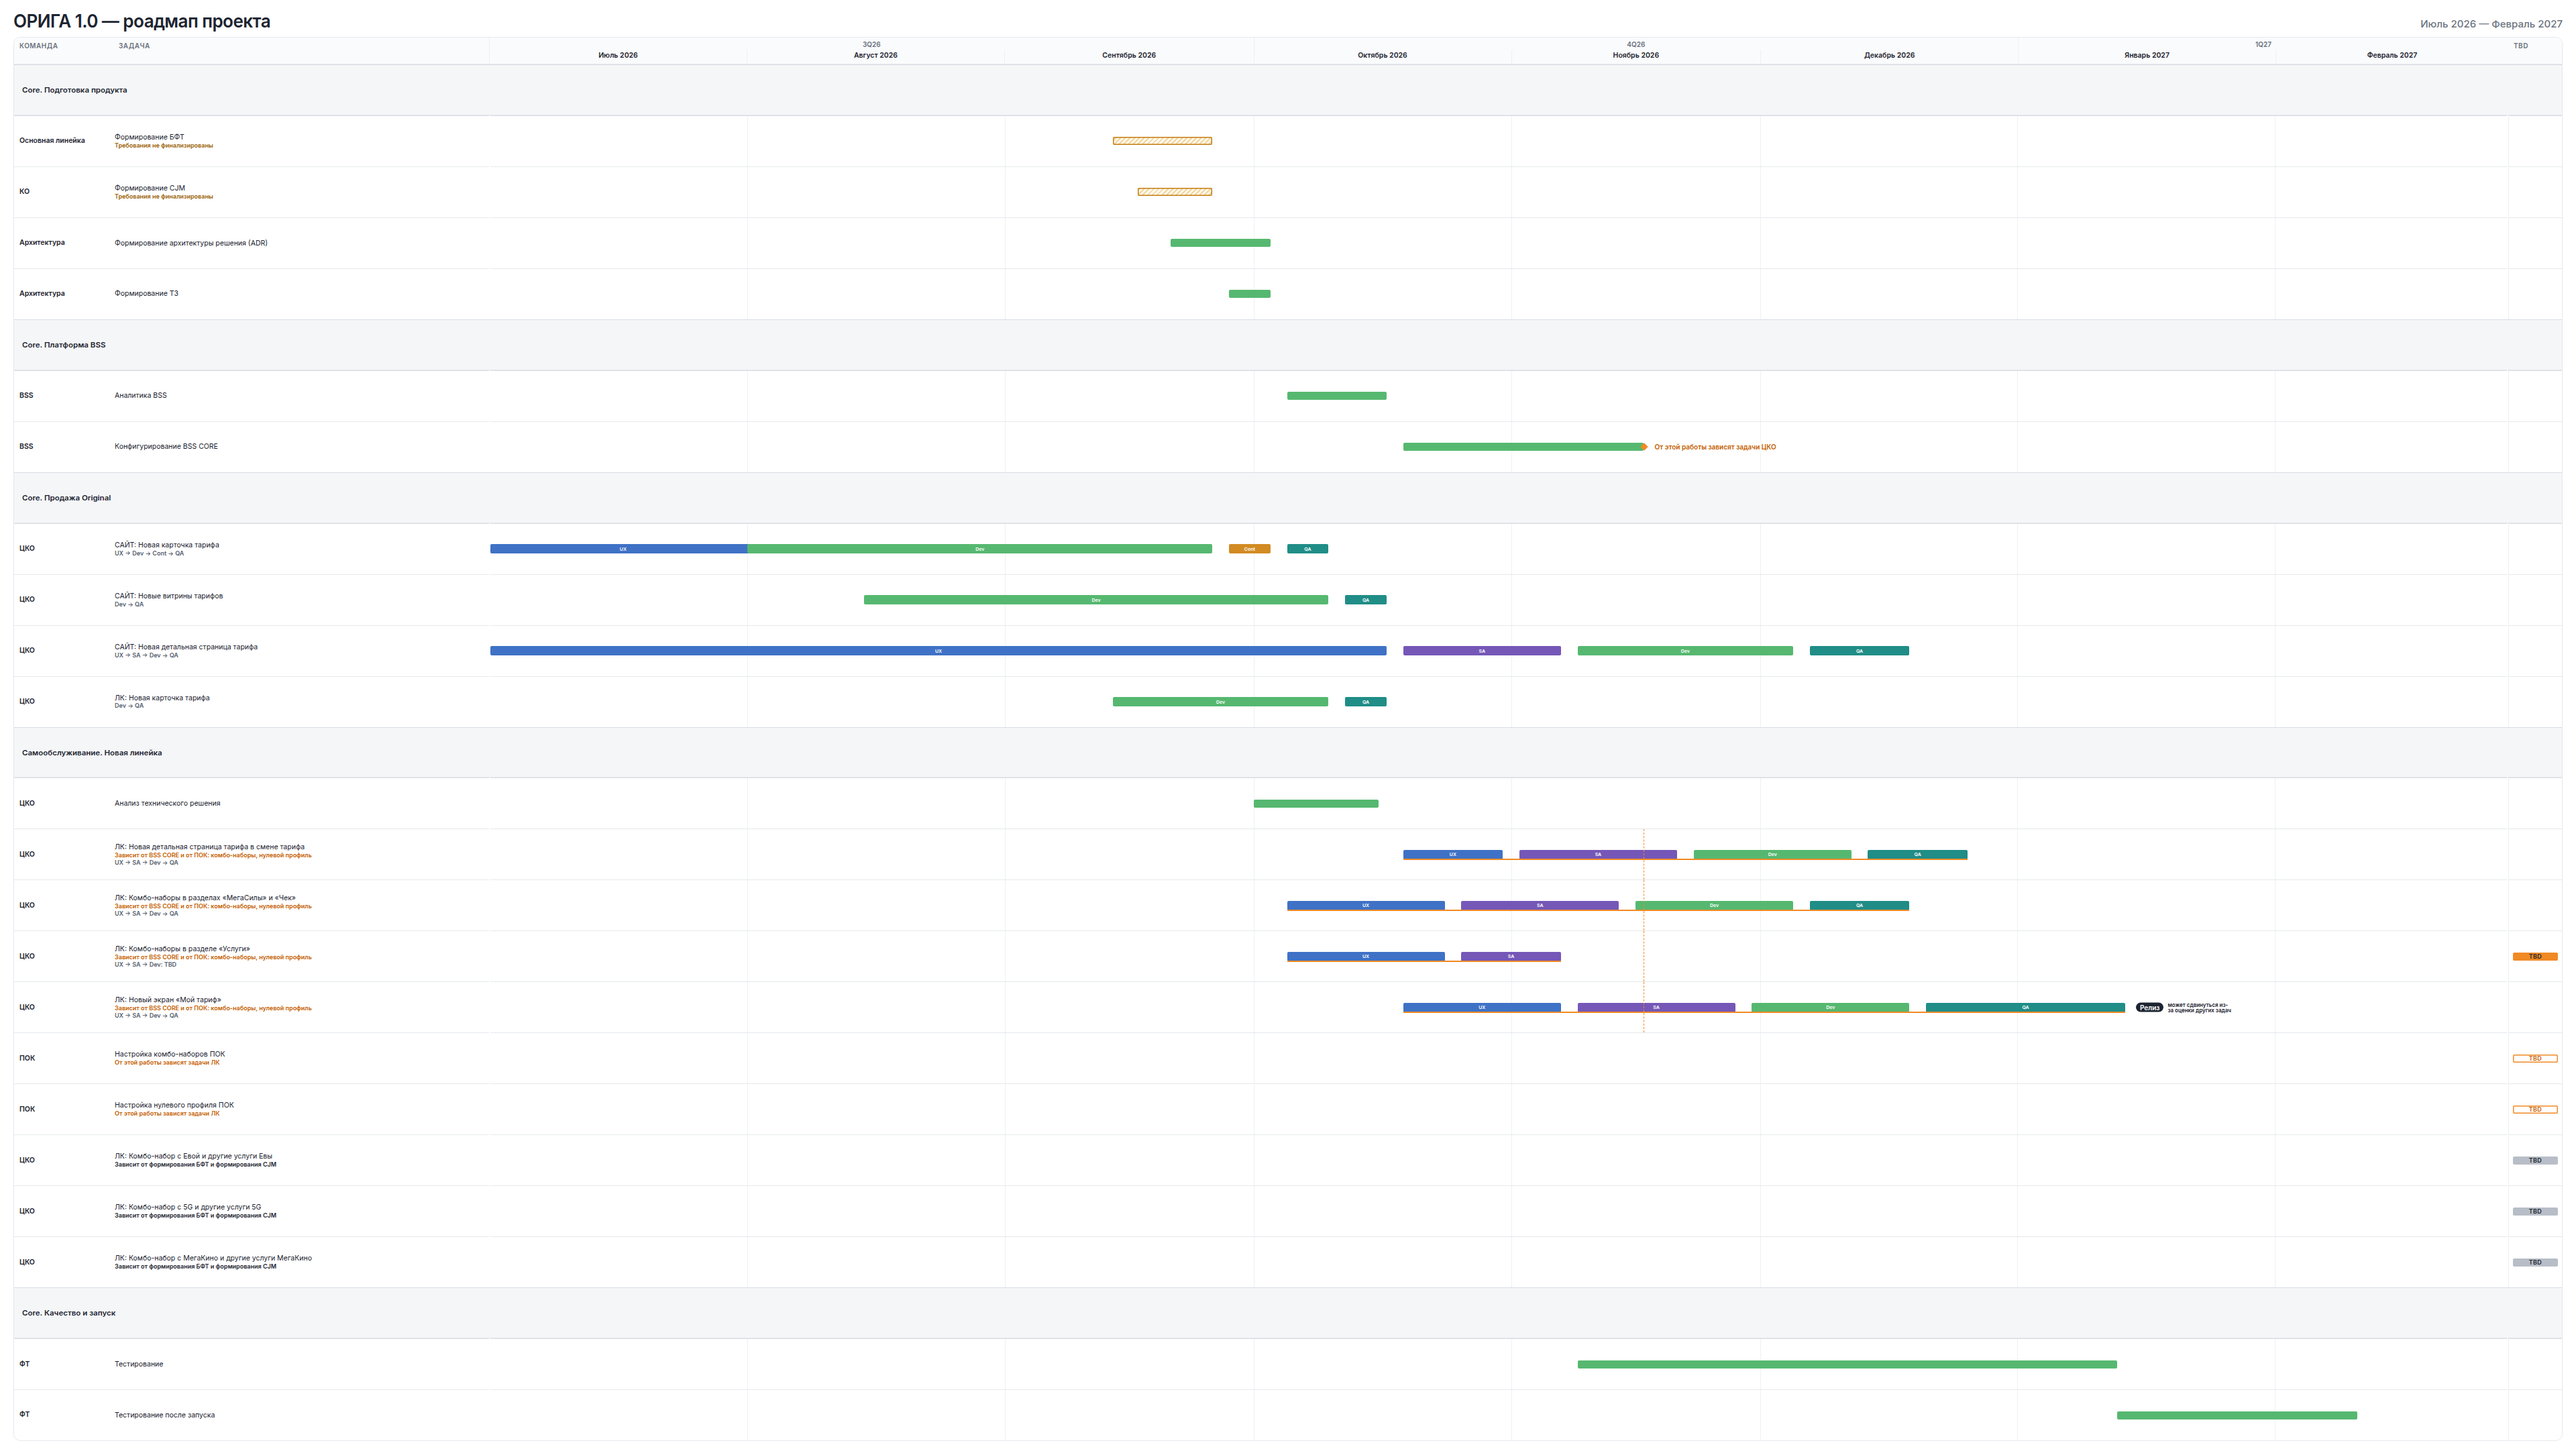
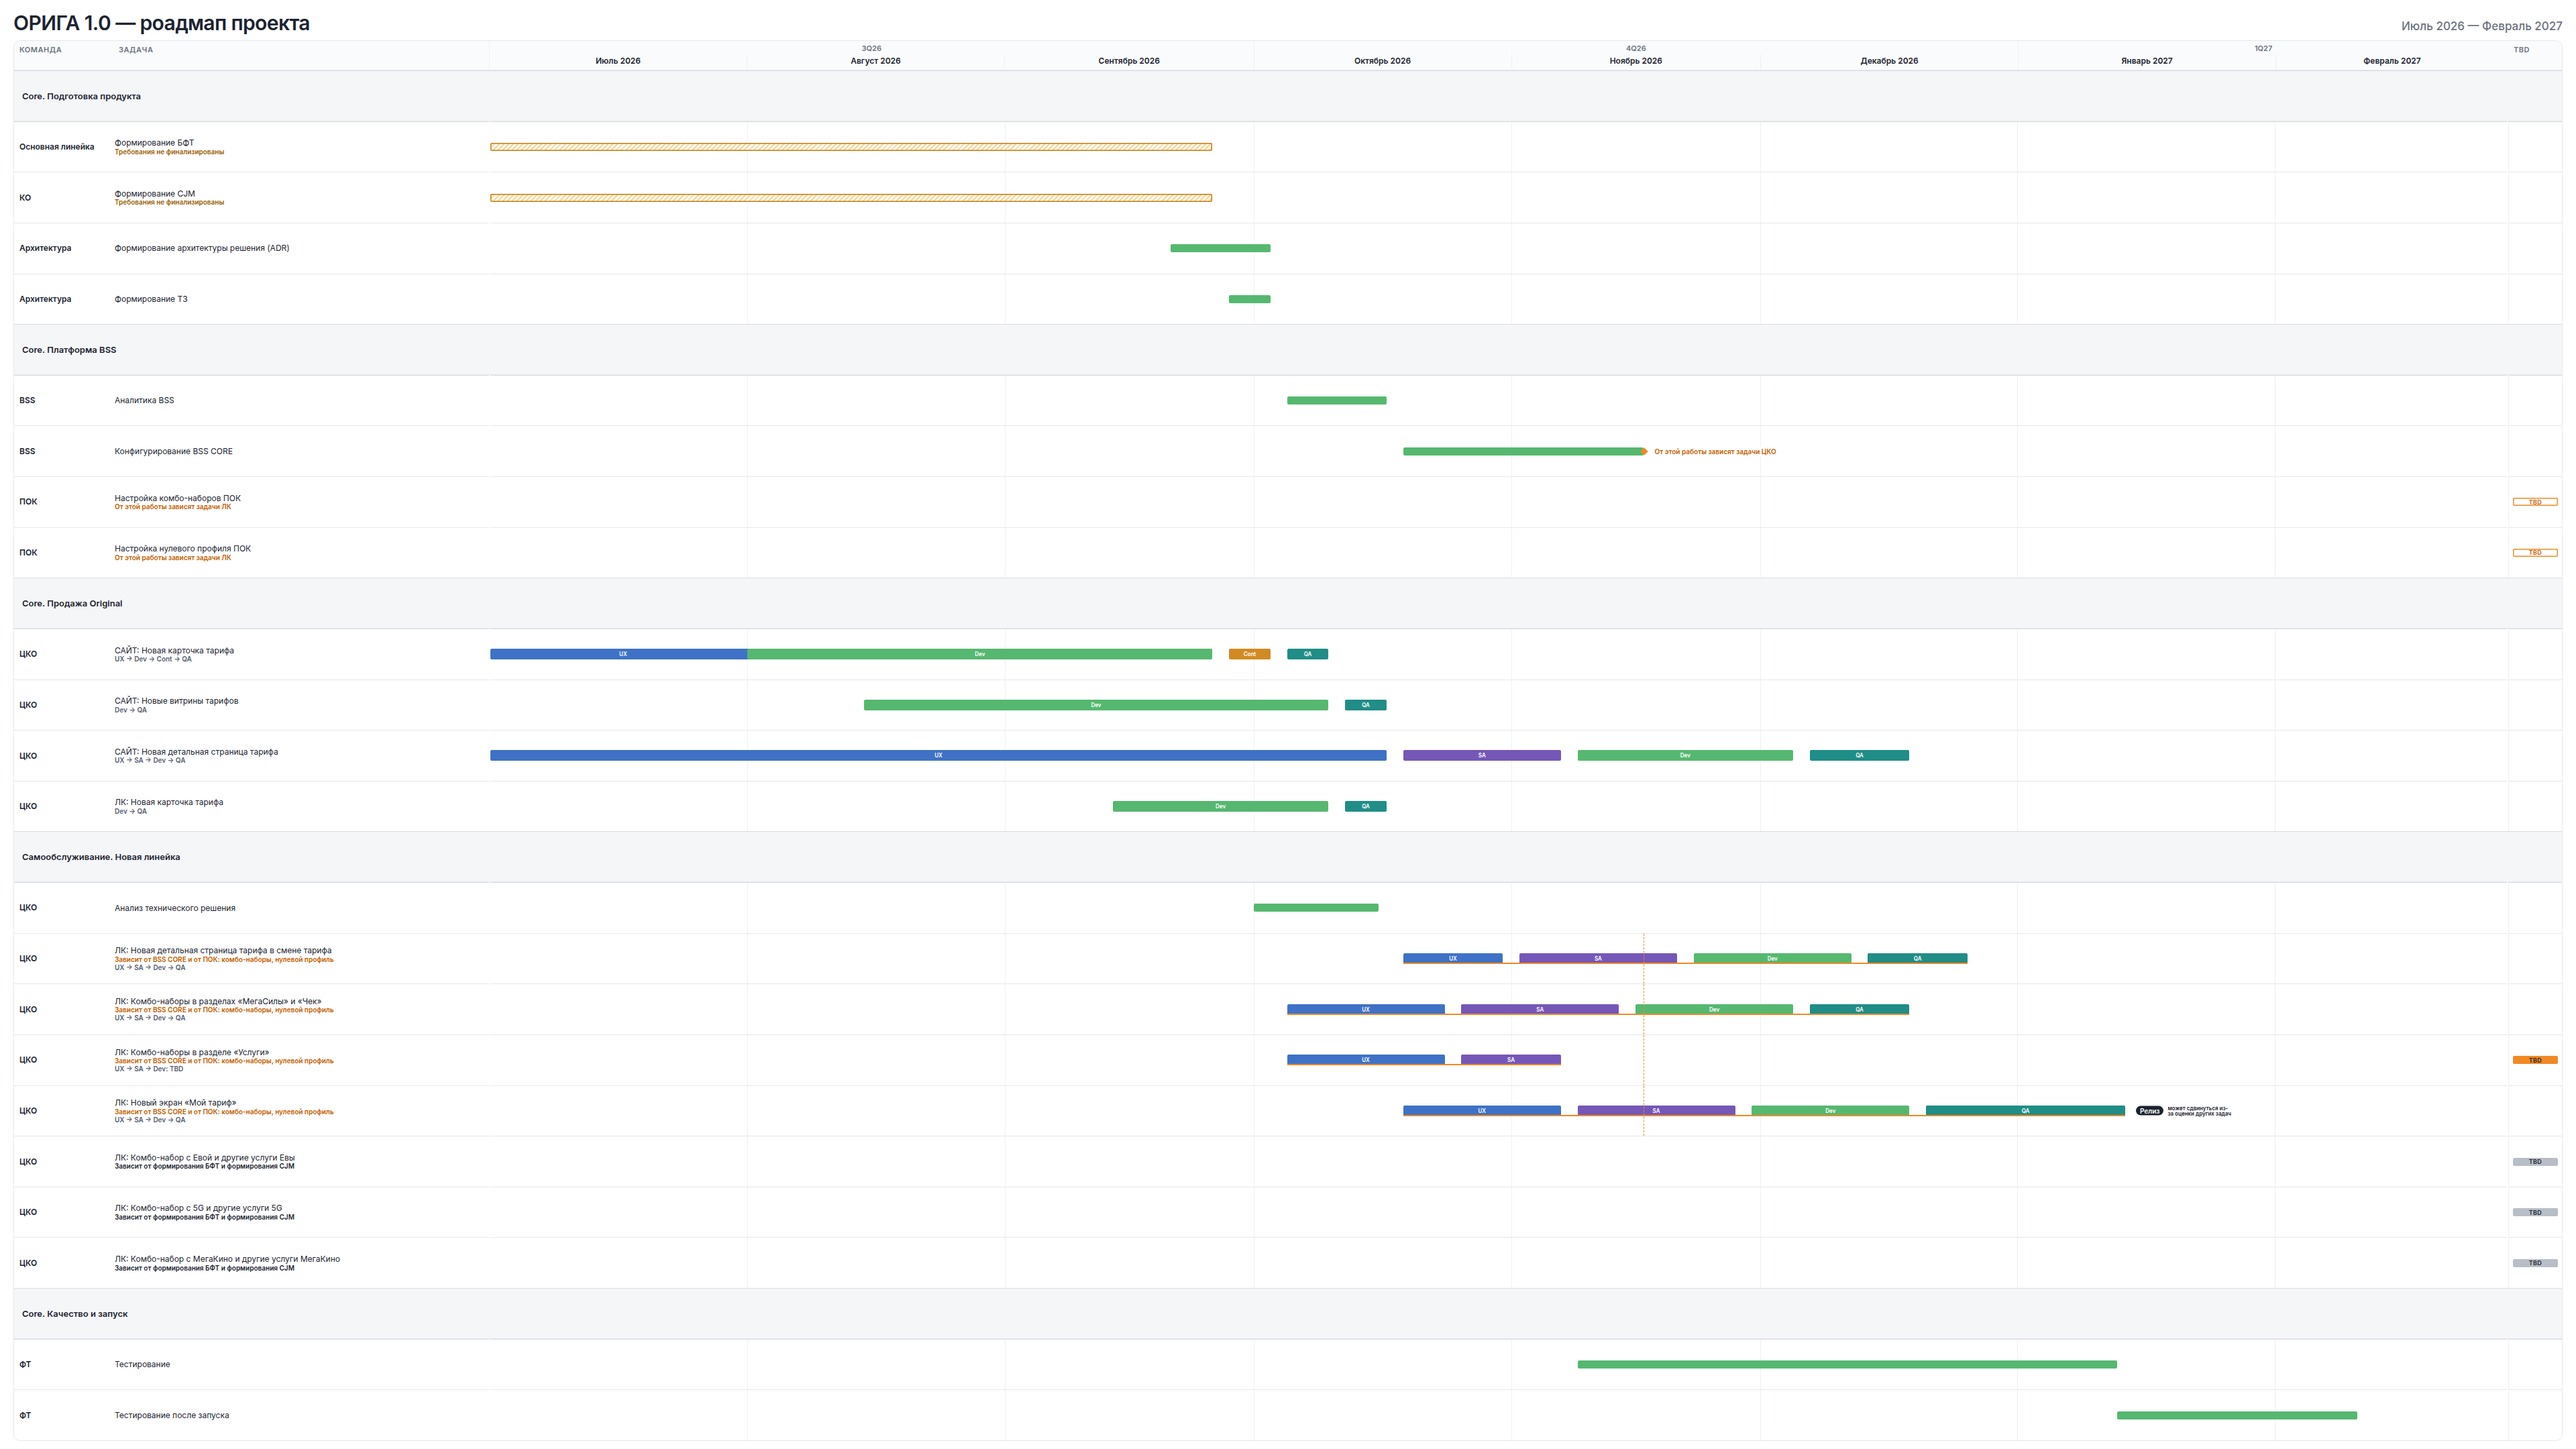
Improve roadmap readability and regroup POK tasks

diff --git a/roadmap/data.js b/roadmap/data.js
@@ -7,8 +7,8 @@ window.ROADMAP_DATA = {
     {
       title: 'Core. Подготовка продукта',
       rows: [
-        { team: 'Основная линейка', task: 'Формирование БФТ', start: '2026-09-14', end: '2026-09-25', requirementsOpen: true, id: 'bft' },
-        { team: 'КО', task: 'Формирование CJM', start: '2026-09-17', end: '2026-09-25', requirementsOpen: true, id: 'cjm' },
+        { team: 'Основная линейка', task: 'Формирование БФТ', start: '2026-07-01', end: '2026-09-25', requirementsOpen: true, id: 'bft' },
+        { team: 'КО', task: 'Формирование CJM', start: '2026-07-01', end: '2026-09-25', requirementsOpen: true, id: 'cjm' },
         { team: 'Архитектура', task: 'Формирование архитектуры решения (ADR)', start: '2026-09-21', end: '2026-10-02' },
         { team: 'Архитектура', task: 'Формирование ТЗ', start: '2026-09-28', end: '2026-10-02' },
       ],
@@ -18,6 +18,8 @@ window.ROADMAP_DATA = {
       rows: [
         { team: 'BSS', task: 'Аналитика BSS', start: '2026-10-05', end: '2026-10-16' },
         { team: 'BSS', task: 'Конфигурирование BSS CORE', start: '2026-10-19', end: '2026-11-16', id: 'bss-core' },
+        { team: 'ПОК', task: 'Настройка комбо-наборов ПОК', tbd: true, id: 'pok-combo' },
+        { team: 'ПОК', task: 'Настройка нулевого профиля ПОК', tbd: true, id: 'pok-zero' },
       ],
     },
     {
@@ -99,8 +101,6 @@ window.ROADMAP_DATA = {
             { role: 'QA', start: '2026-12-21', end: '2027-01-13' },
           ],
         },
-        { team: 'ПОК', task: 'Настройка комбо-наборов ПОК', tbd: true, id: 'pok-combo' },
-        { team: 'ПОК', task: 'Настройка нулевого профиля ПОК', tbd: true, id: 'pok-zero' },
         { team: 'ЦКО', task: 'ЛК: Комбо-набор с Евой и другие услуги Евы', tbd: true, dependsOn: ['bft', 'cjm'] },
         { team: 'ЦКО', task: 'ЛК: Комбо-набор с 5G и другие услуги 5G', tbd: true, dependsOn: ['bft', 'cjm'] },
         { team: 'ЦКО', task: 'ЛК: Комбо-набор с МегаКино и другие услуги МегаКино', tbd: true, dependsOn: ['bft', 'cjm'] },

diff --git a/roadmap/roadmap.css b/roadmap/roadmap.css
@@ -63,13 +63,13 @@ html, body {
 }
 
 h1 {
-  font-size: 26px;
+  font-size: 30px;
   font-weight: 600;
   letter-spacing: -0.02em;
 }
 
 .sub {
-  font-size: 15px;
+  font-size: 17px;
   font-weight: 500;
   color: var(--muted);
 }
@@ -93,7 +93,7 @@ h1 {
   padding: 6px 8px;
   background: #fafbfc;
   border-bottom: 1px solid var(--line);
-  font-size: 10px;
+  font-size: 11px;
   font-weight: 600;
   letter-spacing: 0.05em;
   text-transform: uppercase;
@@ -118,13 +118,13 @@ h1 {
 
 .quarters span {
   padding: 4px 0 2px;
-  font-size: 10px;
+  font-size: 11px;
   color: var(--muted);
 }
 
 .months span {
   padding: 2px 0 6px;
-  font-size: 10.5px;
+  font-size: 12px;
   color: var(--ink);
 }
 
@@ -134,7 +134,7 @@ h1 {
   background: var(--block);
   border-top: 1px solid #d8dde4;
   border-bottom: 1px solid var(--line);
-  font-size: 11.5px;
+  font-size: 13px;
   font-weight: 600;
   color: var(--ink);
   display: flex;
@@ -155,14 +155,14 @@ h1 {
 
 .team {
   padding: 0 8px;
-  font-size: 10.5px;
+  font-size: 12px;
   font-weight: 600;
   line-height: 1.15;
 }
 
 .task {
   padding: 0 8px 0 2px;
-  font-size: 10.5px;
+  font-size: 12px;
   line-height: 1.12;
   min-width: 0;
   flex-direction: column;
@@ -176,7 +176,7 @@ h1 {
 }
 
 .task-note {
-  font-size: 9px;
+  font-size: 10px;
   font-weight: 600;
   line-height: 1.1;
   white-space: nowrap;
@@ -227,8 +227,8 @@ h1 {
 .role-segment {
   position: absolute;
   top: 50%;
-  height: 14px;
-  margin-top: -7px;
+  height: 16px;
+  margin-top: -8px;
   border-radius: 2px;
   color: #fff;
   font-style: normal;
@@ -242,7 +242,7 @@ h1 {
   display: flex;
   align-items: center;
   justify-content: center;
-  font-size: 7px;
+  font-size: 8px;
   font-weight: 700;
   line-height: 1;
   white-space: nowrap;
